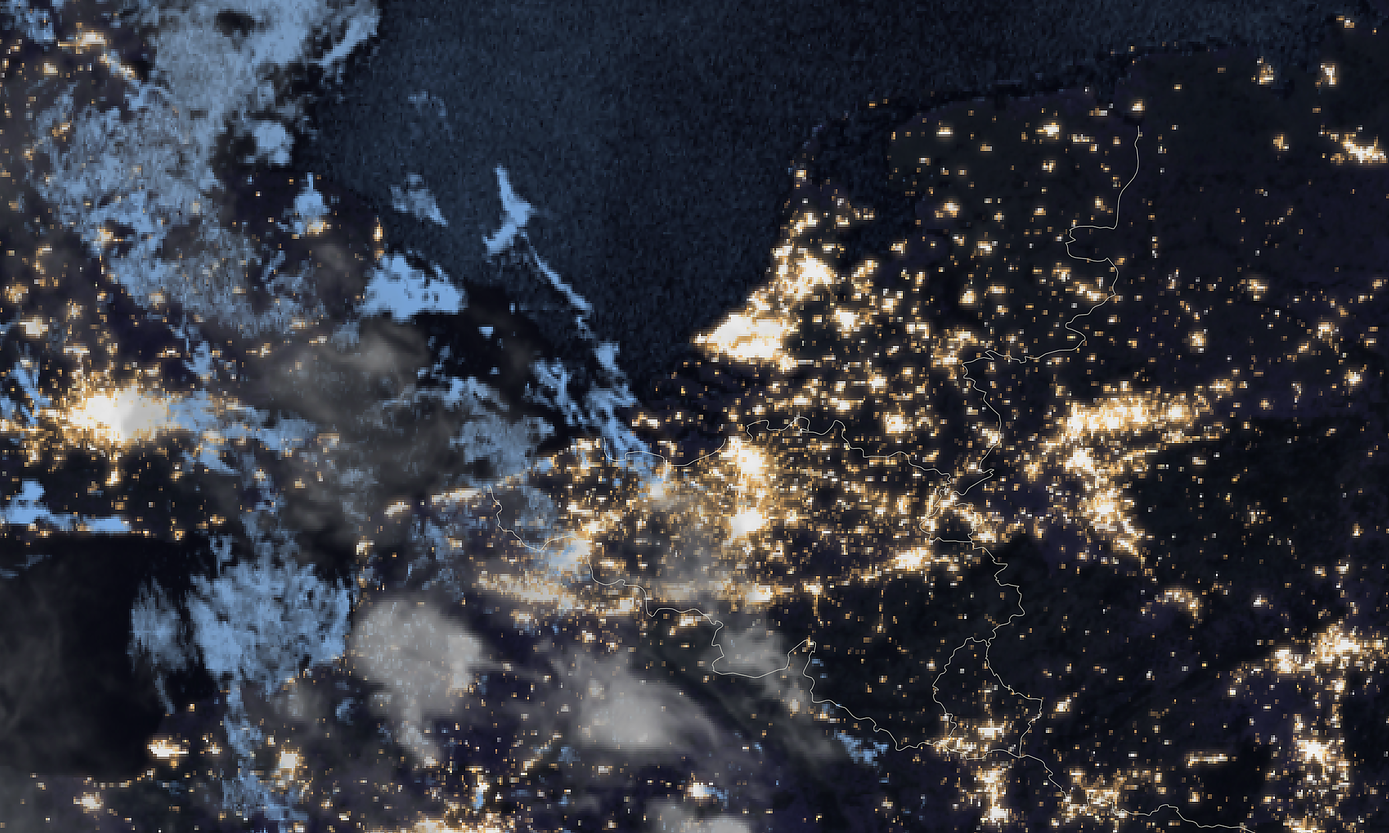
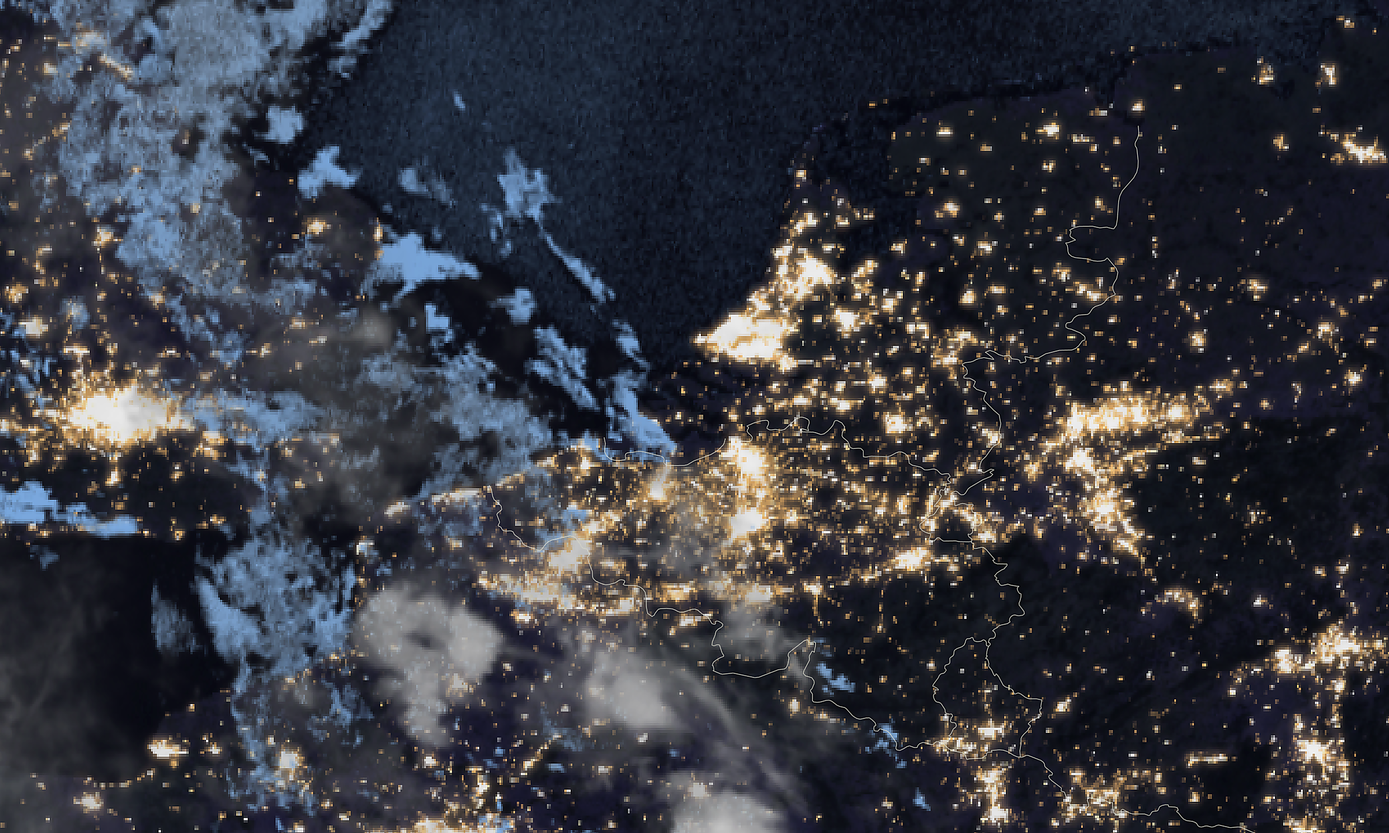
MTG Benelux satellietbeeld update 2026-05-02 02:00

diff --git a/mtg_benelux_meta.js b/mtg_benelux_meta.js
@@ -1,2 +1,2 @@
 const MTG_BENELUX_PRODUCT = "mtg_fd:rgb_geocolour";
-const MTG_BENELUX_TIJD = "2026-05-01T23:20:00Z";
+const MTG_BENELUX_TIJD = "2026-05-01T23:40:00Z";
